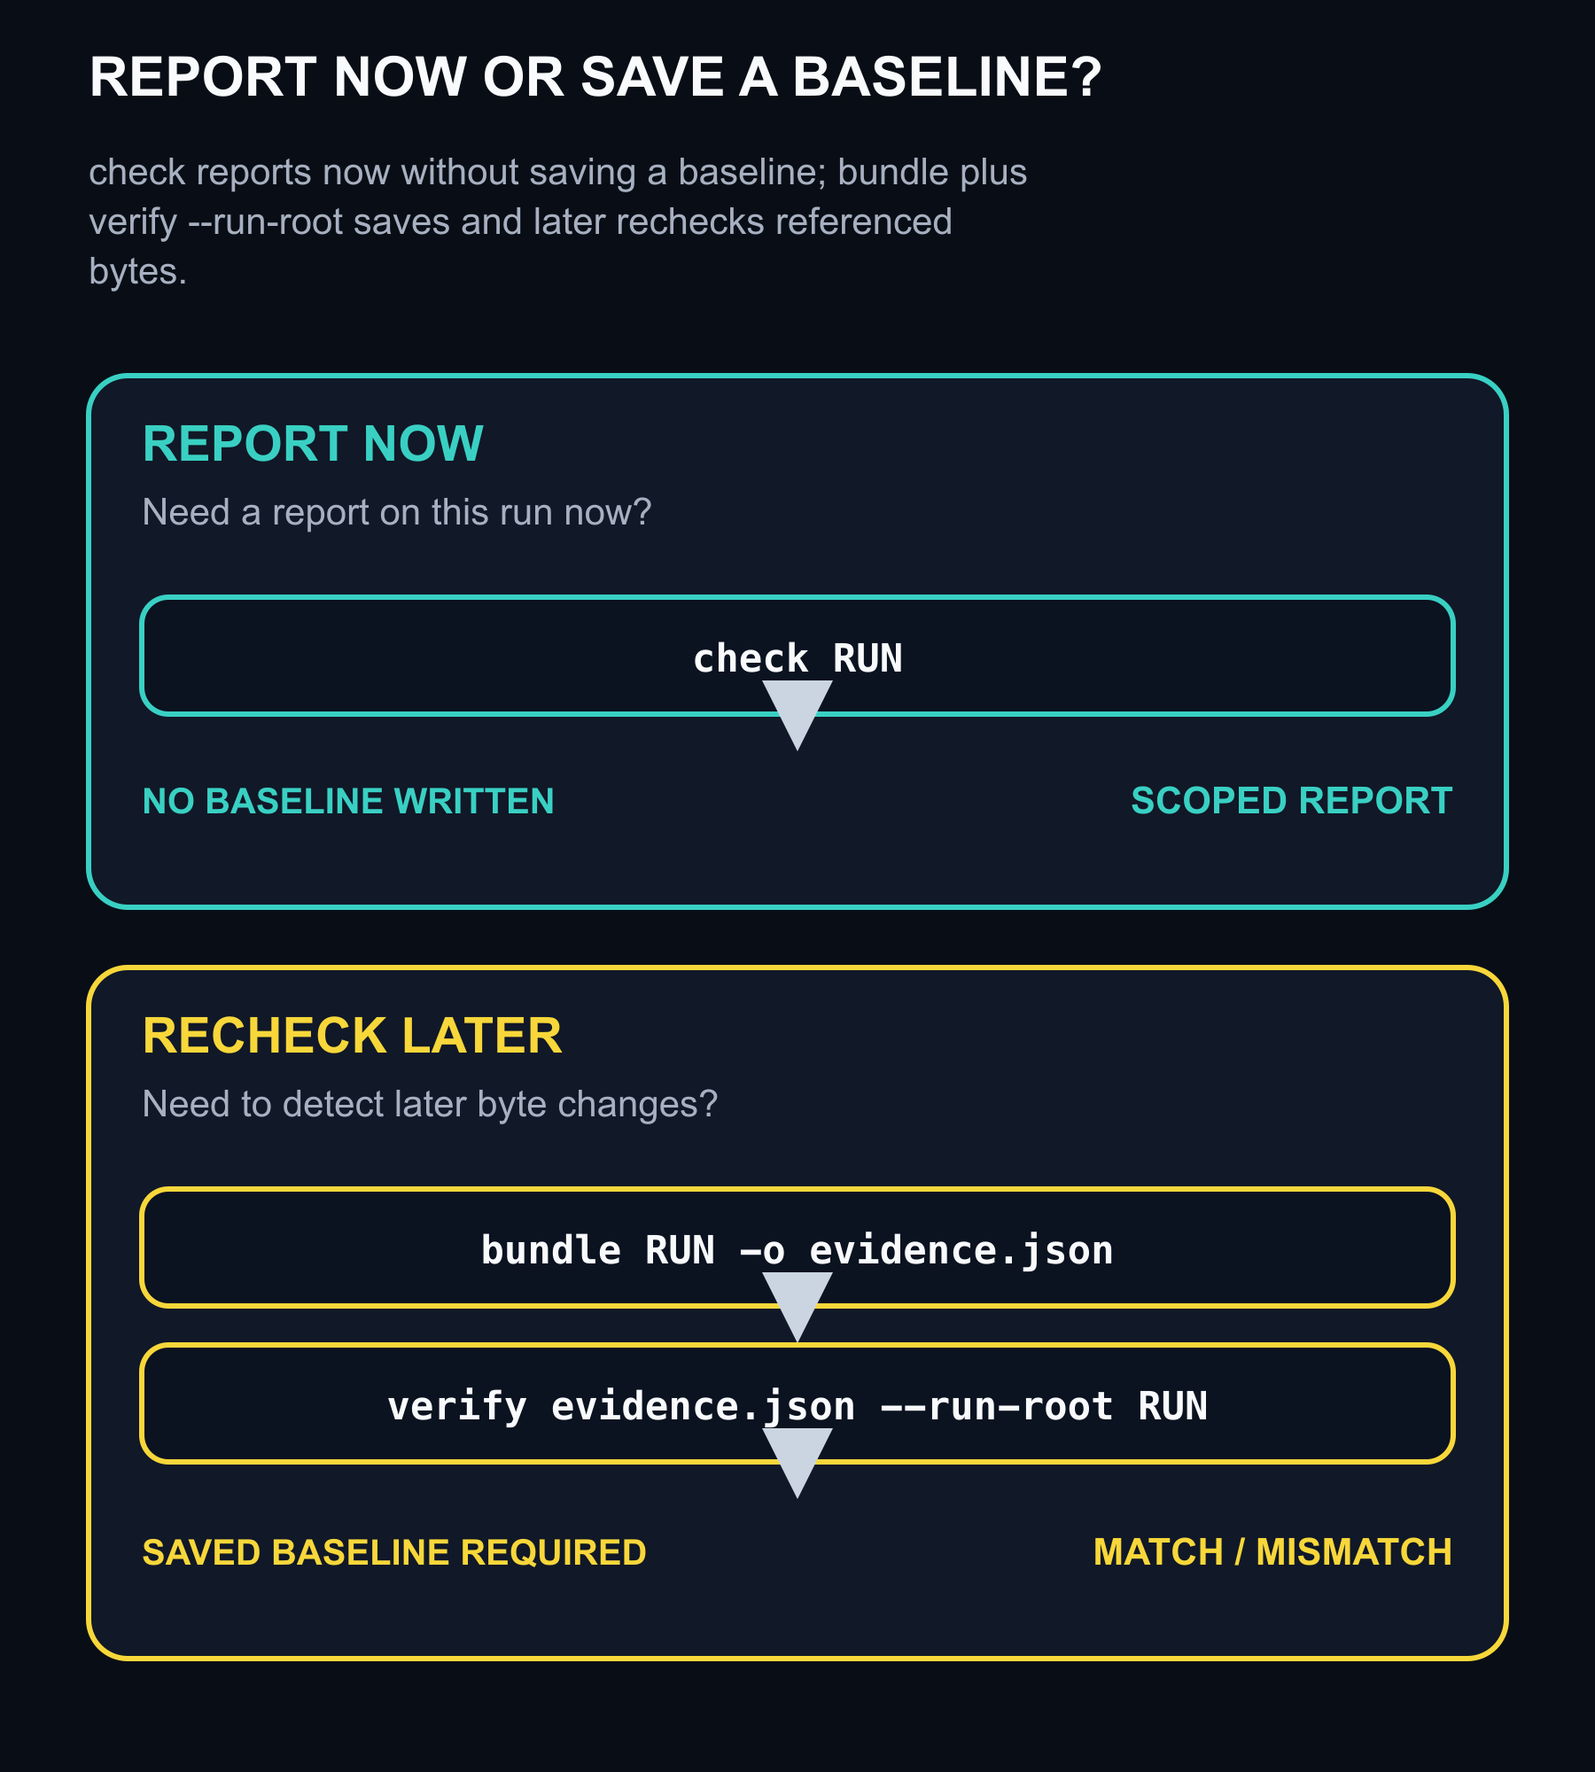
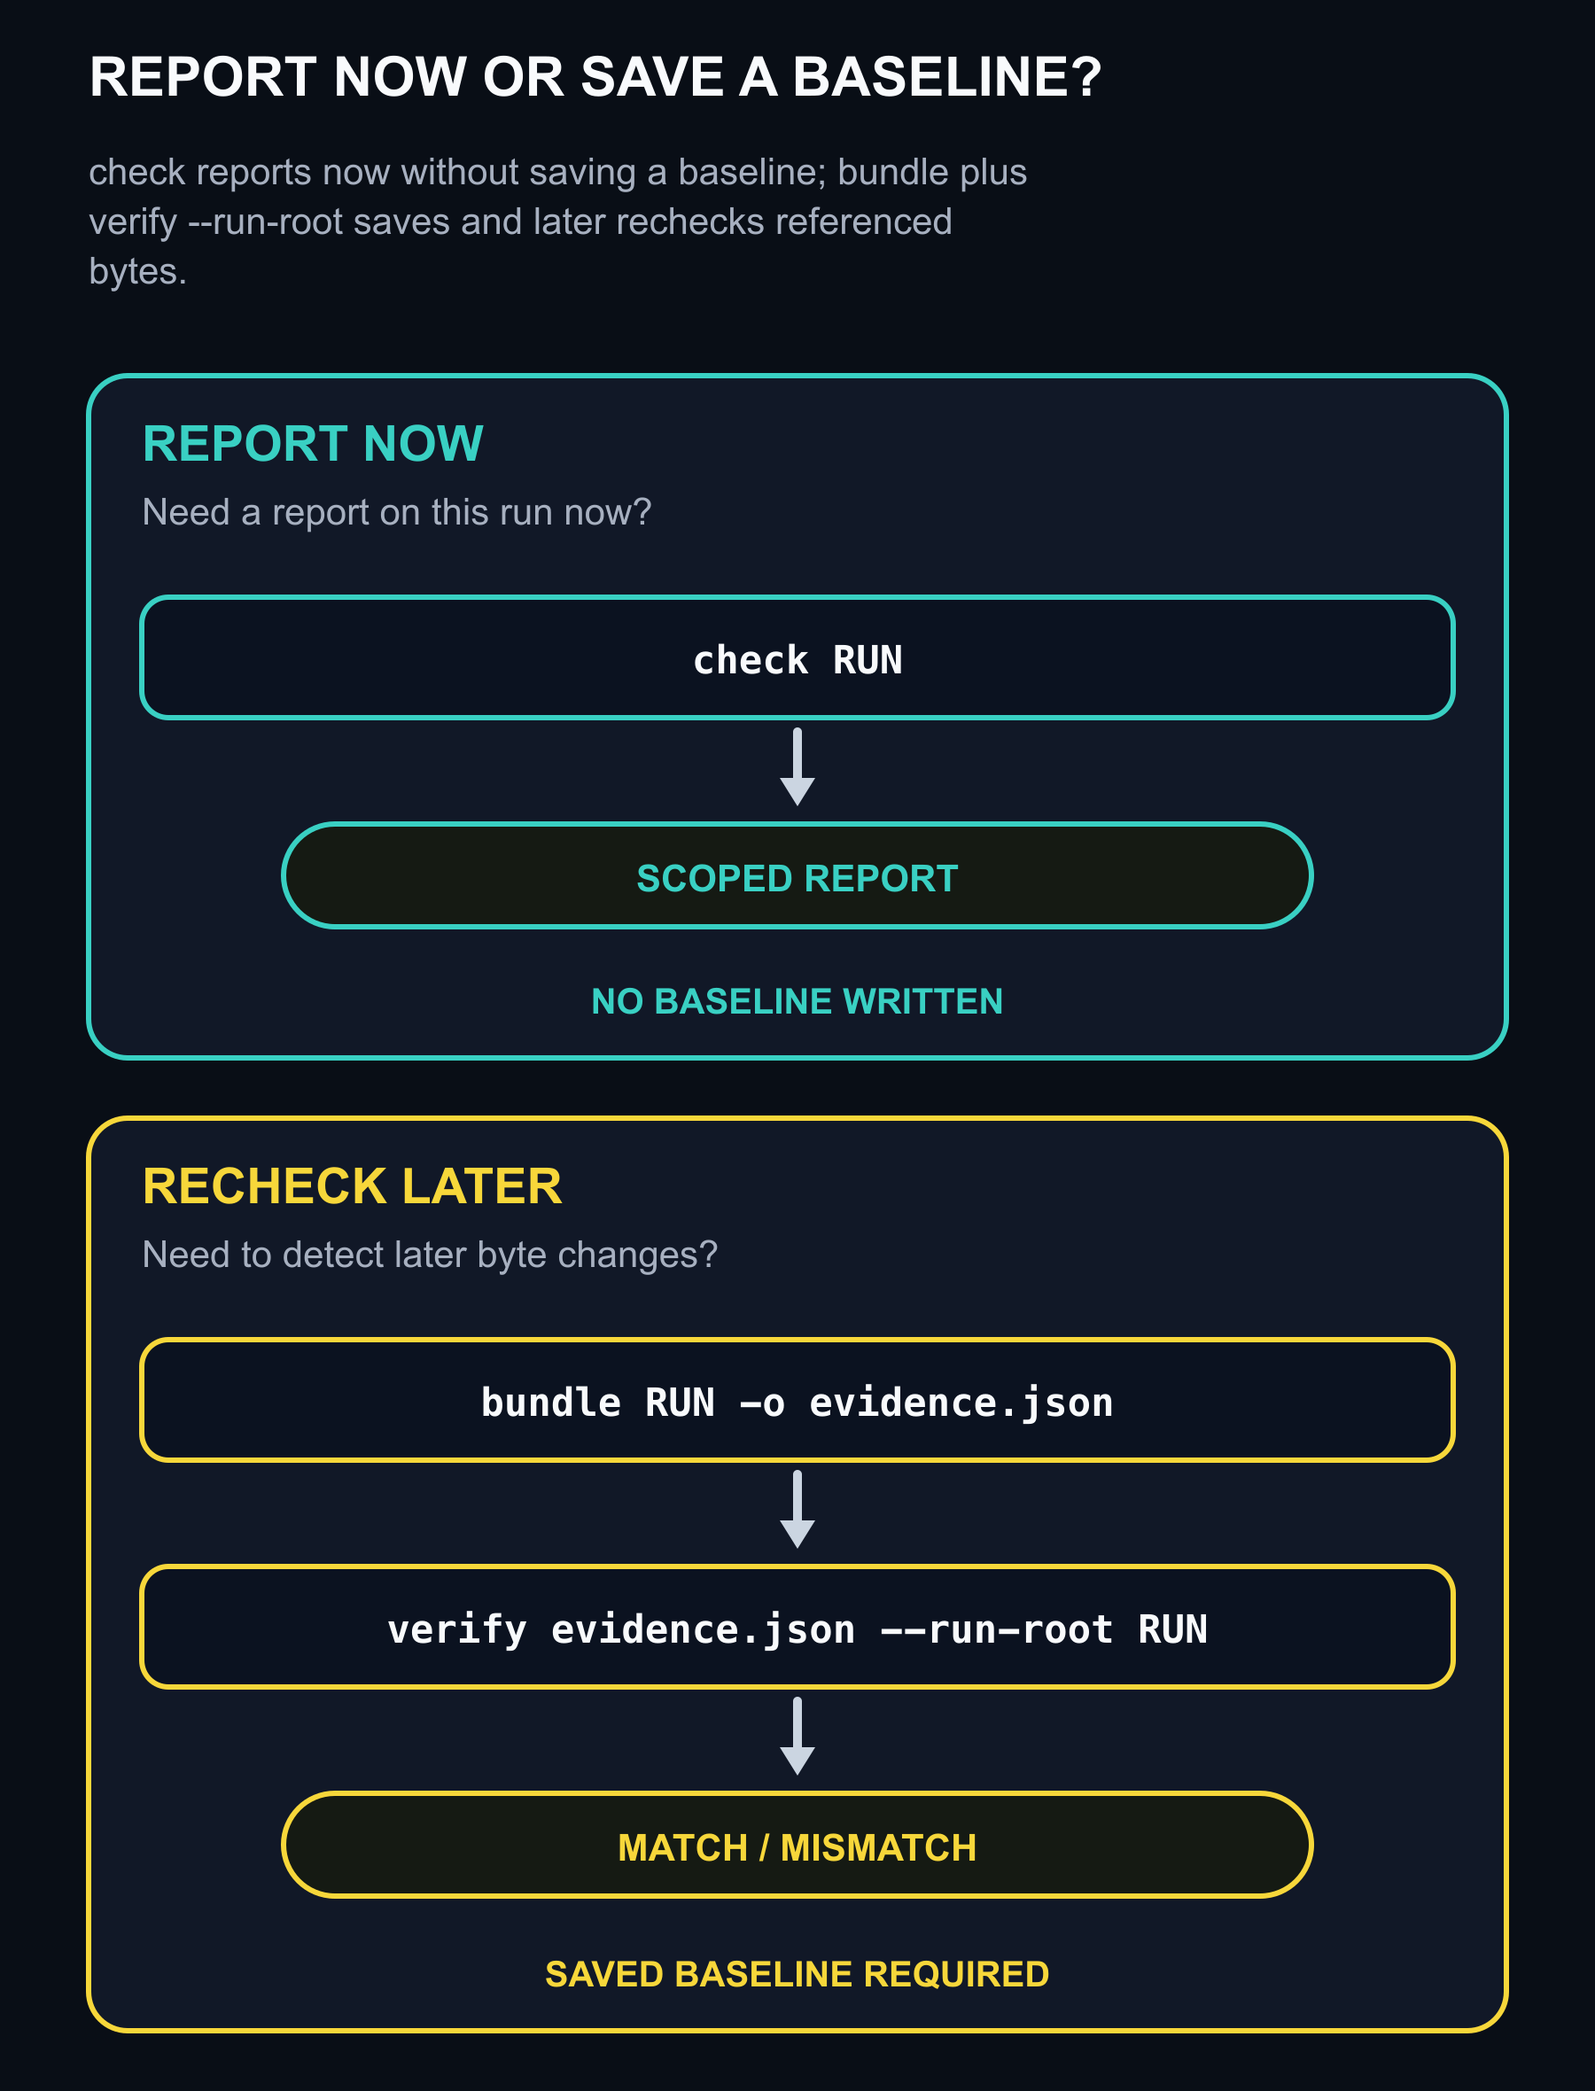
Polish responsive figure connectors

diff --git a/scripts/build_command_figure.py b/scripts/build_command_figure.py
@@ -12,12 +12,29 @@ from xml.sax.saxutils import escape
 ROOT = Path(__file__).resolve().parents[1]
 FIGURES = ROOT / "figures"
 FIGURE_ID = "eval-evidence-command-path"
-GENERATOR_VERSION = "3"
+GENERATOR_VERSION = "4"
 BG, PANEL, INK, MUTED = "#090E16", "#111827", "#F8FAFC", "#A7B0C0"
 
 
 def t(value: object) -> str:
     return escape(str(value), {'"': '&quot;'})
+
+
+def horizontal_arrow(x1: int, x2: int, y: int) -> list[str]:
+    """Draw a connector whose body stays visible at every render scale."""
+    return [
+        f'<line class="flow-arrow-body" x1="{x1}" y1="{y}" x2="{x2 - 16}" y2="{y}" stroke="#CBD5E1" stroke-width="5" stroke-linecap="round"/>',
+        f'<path class="flow-arrow-head" d="M{x2 - 16} {y - 10} L{x2} {y} L{x2 - 16} {y + 10} Z" fill="#CBD5E1"/>',
+    ]
+
+
+def command_lines(step: str) -> list[str]:
+    """Wrap long commands only at a real CLI option boundary."""
+    for option in (" -o ", " --run-root "):
+        if option in step:
+            command, value = step.split(option, 1)
+            return [command, f"{option.strip()} {value}"]
+    return [step]
 
 
 def svg(brief: dict, render: dict, bd: str, rd: str) -> str:
@@ -44,22 +61,25 @@ def svg(brief: dict, render: dict, bd: str, rd: str) -> str:
         ])
         for i, prompt_line in enumerate(prompt_lines):
             p.append(f'<text x="195" y="{y + 113 + i * 28}" text-anchor="middle" fill="{INK}" font-family="Arial, sans-serif" font-size="20">{t(prompt_line)}</text>')
-        step_xs = [380] if len(lane["steps"]) == 1 else [350, 735]
-        step_widths = [510] if len(lane["steps"]) == 1 else [340, 520]
+        if len(lane["steps"]) == 1:
+            step_xs, step_widths = [400], [500]
+            result_x, result_width, note_x = 1190, 300, 400
+        else:
+            step_xs, step_widths = [350, 740], [280, 400]
+            result_x, result_width, note_x = 1285, 215, 350
         for idx, (step, x, step_width) in enumerate(zip(lane["steps"], step_xs, step_widths)):
-            p.extend([
-                f'<rect x="{x}" y="{y + 50}" width="{step_width}" height="82" rx="16" fill="#0B1220" stroke="{color}" stroke-width="3"/>',
-                f'<text x="{x + step_width / 2}" y="{y + 101}" text-anchor="middle" fill="{INK}" font-family="monospace" font-size="{20 if len(step) > 20 else 22}" font-weight="700">{t(step)}</text>',
-            ])
+            lines = command_lines(step)
+            p.append(f'<rect x="{x}" y="{y + 50}" width="{step_width}" height="82" rx="16" fill="#0B1220" stroke="{color}" stroke-width="3"/>')
+            for line, line_y in zip(lines, (y + 101,) if len(lines) == 1 else (y + 84, y + 112)):
+                p.append(f'<text x="{x + step_width / 2}" y="{line_y}" text-anchor="middle" fill="{INK}" font-family="monospace" font-size="{20 if len(lines) > 1 or len(line) > 20 else 22}" font-weight="700">{t(line)}</text>')
             if idx < len(lane["steps"]) - 1:
-                p.append(f'<path d="M{x + step_width + 10} {y + 91} H{x + step_width + 54}" stroke="#CBD5E1" stroke-width="5" marker-end="url(#arrow)"/>')
-        result_x = 1285 if len(lane["steps"]) == 2 else 1110
+                p.extend(horizontal_arrow(x + step_width + 16, step_xs[idx + 1] - 20, y + 91))
         prior_end = step_xs[-1] + step_widths[-1]
         p.extend([
-            f'<path d="M{prior_end + 10} {y + 91} H{result_x - 24}" stroke="#CBD5E1" stroke-width="5" marker-end="url(#arrow)"/>',
-            f'<rect x="{result_x}" y="{y + 42}" width="{210 if len(lane["steps"]) == 2 else 235}" height="98" rx="49" fill="#151A13" stroke="{color}" stroke-width="4"/>',
-            f'<text x="{result_x + (105 if len(lane["steps"]) == 2 else 117)}" y="{y + 101}" text-anchor="middle" fill="{color}" font-family="Arial, sans-serif" font-size="{20 if len(lane["result"]) > 16 else 21}" font-weight="700">{t(lane["result"])}</text>',
-            f'<text x="380" y="{y + 177}" fill="{color}" font-family="Arial, sans-serif" font-size="20" font-weight="700">{t(lane["note"])}</text>',
+            *horizontal_arrow(prior_end + 16, result_x - 20, y + 91),
+            f'<rect x="{result_x}" y="{y + 42}" width="{result_width}" height="98" rx="49" fill="#151A13" stroke="{color}" stroke-width="4"/>',
+            f'<text x="{result_x + result_width / 2}" y="{y + 101}" text-anchor="middle" fill="{color}" font-family="Arial, sans-serif" font-size="{20 if len(lane["result"]) > 15 else 21}" font-weight="700">{t(lane["result"])}</text>',
+            f'<text x="{note_x}" y="{y + 177}" fill="{color}" font-family="Arial, sans-serif" font-size="20" font-weight="700">{t(lane["note"])}</text>',
         ])
     p.append('</svg>')
     return "\n".join(p) + "\n"

diff --git a/scripts/build_story_figures.py b/scripts/build_story_figures.py
@@ -23,11 +23,20 @@ def t(value: object) -> str:
     return escape(str(value), {'"': '&quot;'})
 
 
+def horizontal_arrow(x1: int, x2: int, y: int) -> list[str]:
+    """Draw a connector with a separately visible shaft and head."""
+    return [
+        f'<line class="flow-arrow-body" x1="{x1}" y1="{y}" x2="{x2 - 16}" y2="{y}" stroke="#CBD5E1" stroke-width="5" stroke-linecap="round"/>',
+        f'<path class="flow-arrow-head" d="M{x2 - 16} {y - 10} L{x2} {y} L{x2 - 16} {y + 10} Z" fill="#CBD5E1"/>',
+    ]
+
+
 def head(brief: dict, render: dict, bd: str, rd: str) -> list[str]:
     width, height = render["canvas"]["width"], render["canvas"]["height"]
+    generator_version = "3" if render["figure_id"] == "eval-evidence-tamper-story" else GENERATOR_VERSION
     return [
         '<?xml version="1.0" encoding="UTF-8"?>',
-        f'<!-- generated by scripts/build_story_figures.py v{GENERATOR_VERSION}; brief-sha256={bd}; render-sha256={rd} -->',
+        f'<!-- generated by scripts/build_story_figures.py v{generator_version}; brief-sha256={bd}; render-sha256={rd} -->',
         f'<svg xmlns="http://www.w3.org/2000/svg" width="{width}" height="{height}" viewBox="0 0 {width} {height}" role="img" aria-labelledby="figure-title figure-desc">',
         f'<title id="figure-title">{t(brief["title"])}</title>',
         f'<desc id="figure-desc">{t(brief["accessibility"]["long_description"])}</desc>',
@@ -103,12 +112,12 @@ def tamper_svg(brief: dict, render: dict, bd: str, rd: str) -> str:
     p = head(brief, render, bd, rd)
     cards = [
         (render["before"], 70, "#20D66B"),
-        (render["after"], 570, "#FF6F59"),
-        (render["verify"], 1070, "#F7D73A"),
+        (render["after"], 600, "#FF6F59"),
+        (render["verify"], 1130, "#F7D73A"),
     ]
     for idx, (card, x, color) in enumerate(cards, 1):
         p.extend([
-            f'<rect x="{x}" y="205" width="430" height="310" rx="24" fill="{PANEL}" stroke="{color}" stroke-width="4"/>',
+            f'<rect x="{x}" y="205" width="400" height="310" rx="24" fill="{PANEL}" stroke="{color}" stroke-width="4"/>',
             f'<circle cx="{x + 44}" cy="249" r="23" fill="{color}"/>',
             f'<text x="{x + 44}" y="258" text-anchor="middle" fill="{BG}" font-family="Arial, sans-serif" font-size="22" font-weight="700">{idx}</text>',
             f'<text x="{x + 86}" y="258" fill="{color}" font-family="Arial, sans-serif" font-size="25" font-weight="700">{t(card["verb"])}</text>',
@@ -119,7 +128,7 @@ def tamper_svg(brief: dict, render: dict, bd: str, rd: str) -> str:
                 f'<text x="{x + 38}" y="380" fill="{INK}" font-family="monospace" font-size="24">{t(card["value"])}</text>',
                 f'<text x="{x + 38}" y="453" fill="{MUTED}" font-family="Arial, sans-serif" font-size="20">SHA-256</text>',
                 f'<text x="{x + 160}" y="453" fill="{color}" font-family="monospace" font-size="25" font-weight="700">{t(card["digest"])}</text>',
-                f'<path d="M{x + 440} 360 H{x + 478}" stroke="#CBD5E1" stroke-width="6" marker-end="url(#arrow)"/>',
+                *horizontal_arrow(x + 418, cards[idx][1] - 20, 360),
             ])
         else:
             p.extend([
@@ -127,8 +136,8 @@ def tamper_svg(brief: dict, render: dict, bd: str, rd: str) -> str:
                 f'<text x="{x + 175}" y="330" fill="{INK}" font-family="monospace" font-size="24" font-weight="700">{t(card["expected"])}</text>',
                 f'<text x="{x + 38}" y="385" fill="{MUTED}" font-family="Arial, sans-serif" font-size="20">ACTUAL</text>',
                 f'<text x="{x + 175}" y="385" fill="#FF6F59" font-family="monospace" font-size="24" font-weight="700">{t(card["actual"])}</text>',
-                f'<text x="{x + 215}" y="447" text-anchor="middle" fill="#FF6F59" font-family="Arial, sans-serif" font-size="27" font-weight="700">≠</text>',
-                f'<text x="{x + 215}" y="487" text-anchor="middle" fill="#FF6F59" font-family="Arial, sans-serif" font-size="22" font-weight="700">{t(card["result"])}</text>',
+                f'<text x="{x + 200}" y="447" text-anchor="middle" fill="#FF6F59" font-family="Arial, sans-serif" font-size="27" font-weight="700">≠</text>',
+                f'<text x="{x + 200}" y="487" text-anchor="middle" fill="#FF6F59" font-family="Arial, sans-serif" font-size="22" font-weight="700">{t(card["result"])}</text>',
             ])
     p.extend([
         '<rect x="245" y="580" width="1110" height="86" rx="18" fill="#261416" stroke="#FF6F59" stroke-width="3"/>',

diff --git a/scripts/build_mobile_figures.py b/scripts/build_mobile_figures.py
@@ -36,14 +36,25 @@ def box(x: int, y: int, width: int, height: int, stroke: str = "#334155",
     return f'<rect x="{x}" y="{y}" width="{width}" height="{height}" rx="{radius}" fill="{fill}" stroke="{stroke}" stroke-width="{stroke_width}"/>'
 
 
+def down_arrow(x: int, y1: int, y2: int) -> list[str]:
+    """Draw a vertical flow connector with a readable shaft and arrowhead."""
+    return [
+        f'<line class="flow-arrow-body" x1="{x}" y1="{y1}" x2="{x}" y2="{y2 - 16}" stroke="#CBD5E1" stroke-width="5" stroke-linecap="round"/>',
+        f'<path class="flow-arrow-head" d="M{x - 10} {y2 - 16} L{x} {y2} L{x + 10} {y2 - 16} Z" fill="#CBD5E1"/>',
+    ]
+
+
 def header(parts: list[str], brief: dict, render: dict) -> int:
     canvas = render["mobile_canvas"]
     bp = FIGURES / f'{render["figure_id"]}.figure.json'
     rp = FIGURES / f'{render["figure_id"]}.render.json'
     bd = hashlib.sha256(bp.read_text(encoding="utf-8").encode("utf-8")).hexdigest()
     rd = hashlib.sha256(rp.read_text(encoding="utf-8").encode("utf-8")).hexdigest()
+    generator_version = "3" if render["figure_id"] in {
+        "eval-evidence-command-path", "eval-evidence-tamper-story"
+    } else VERSION
     parts.extend([
-        f'<!-- generated by scripts/build_mobile_figures.py v{VERSION}; mobile=true; brief-sha256={bd}; render-sha256={rd} -->',
+        f'<!-- generated by scripts/build_mobile_figures.py v{generator_version}; mobile=true; brief-sha256={bd}; render-sha256={rd} -->',
         f'<svg xmlns="http://www.w3.org/2000/svg" width="{canvas["width"]}" height="{canvas["height"]}" viewBox="0 0 {canvas["width"]} {canvas["height"]}" role="img" aria-labelledby="figure-title figure-desc">',
         f'<title id="figure-title">{esc(brief["title"])}</title>',
         f'<desc id="figure-desc">{esc(brief["accessibility"]["long_description"])}</desc>',
@@ -91,23 +102,27 @@ def command(brief: dict, render: dict) -> str:
     y = header(p, brief, render)
     for lane in render["lanes"]:
         color = lane["color"]
-        height = 300 if len(lane["steps"]) == 1 else 390
+        height = 385 if len(lane["steps"]) == 1 else 515
         p.extend([box(50, y, 800, height, color), txt(80, y + 48, lane["label"], 28, color, 800)])
         prompt_y = y + 84
         for value in textwrap.wrap(lane["prompt"], width=50):
             p.append(txt(80, prompt_y, value, 21, MUTED, 500)); prompt_y += 27
         step_y = y + 125
-        for step in lane["steps"]:
+        for idx, step in enumerate(lane["steps"]):
             p.extend([
-                box(80, step_y, 740, 66, color, "#0B1220", 15),
-                txt(450, step_y + 42, step, 22, INK, 700, "middle", "monospace"),
+                box(80, step_y, 740, 68, color, "#0B1220", 15),
+                txt(450, step_y + 43, step, 22, INK, 700, "middle", "monospace"),
             ])
-            step_y += 88
-            if step_y < y + height - 85:
-                p.append(f'<path d="M450 {step_y - 18} V{step_y - 5}" stroke="#CBD5E1" stroke-width="4" marker-end="url(#arrow)"/>')
+            if idx < len(lane["steps"]) - 1:
+                next_step_y = step_y + 128
+                p.extend(down_arrow(450, step_y + 76, next_step_y - 10))
+                step_y = next_step_y
+        result_y = step_y + 128
         p.extend([
-            txt(80, y + height - 53, lane["note"], 20, color, 800),
-            txt(820, y + height - 53, lane["result"], 21, color, 800, "end"),
+            *down_arrow(450, step_y + 76, result_y - 10),
+            box(160, result_y, 580, 58, color, "#151A13", 29),
+            txt(450, result_y + 38, lane["result"], 21, color, 800, "middle"),
+            txt(450, y + height - 25, lane["note"], 20, color, 800, "middle"),
         ])
         y += height + 34
     p.append('</svg>')
@@ -192,9 +207,12 @@ def tamper(brief: dict, render: dict) -> str:
                 txt(790, y + 126, "≠", 31, "#FF6F59", 800, "end"),
                 txt(450, y + 198, card["result"], 23, "#FF6F59", 800, "middle"),
             ])
-        y += height + 28
         if idx < 3:
-            p.append(f'<path d="M450 {y - 28} V{y - 8}" stroke="#CBD5E1" stroke-width="5" marker-end="url(#arrow)"/>')
+            next_y = y + height + 64
+            p.extend(down_arrow(450, y + height + 8, next_y - 10))
+            y = next_y
+        else:
+            y += height + 38
     p.extend([
         box(50, y, 800, 84, "#FF6F59", "#261416", 18),
         txt(450, y + 51, render["error"], 20, INK, 700, "middle", "monospace"),

diff --git a/scripts/verify_figure.py b/scripts/verify_figure.py
@@ -37,6 +37,25 @@ def normalized(value: str) -> str:
     return re.sub(r"\s+", " ", value).strip()
 
 
+def verify_flow_connectors(errors: list[str], figure_id: str, suffix: str, expected: int) -> None:
+    """Reject head-only connectors and short shafts in the two sequential stories."""
+    path = FIGURES / f"{figure_id}{suffix}.svg"
+    root = ET.fromstring(path.read_text(encoding="utf-8"))
+    bodies = [element for element in root.iter() if element.attrib.get("class") == "flow-arrow-body"]
+    heads = [element for element in root.iter() if element.attrib.get("class") == "flow-arrow-head"]
+    if len(bodies) != expected or len(heads) != expected:
+        errors.append(
+            f"{path.name}: expected {expected} complete flow connectors, "
+            f"found {len(bodies)} bodies and {len(heads)} heads"
+        )
+        return
+    for body in bodies:
+        x1, y1 = float(body.attrib["x1"]), float(body.attrib["y1"])
+        x2, y2 = float(body.attrib["x2"]), float(body.attrib["y2"])
+        if ((x2 - x1) ** 2 + (y2 - y1) ** 2) ** 0.5 < 20:
+            errors.append(f"{path.name}: flow connector shaft is too short to remain visible")
+
+
 def verify_svg(
     errors: list[str],
     figure_id: str,
@@ -135,6 +154,12 @@ def main() -> int:
             errors.append(f"{figure_id}: canonical desktop SVG is stale")
         wide = verify_svg(errors, figure_id, brief, brief_bytes, render, render_bytes, "", "canvas")
         mobile = verify_svg(errors, figure_id, brief, brief_bytes, render, render_bytes, "-mobile", "mobile_canvas")
+        if figure_id == "eval-evidence-command-path":
+            verify_flow_connectors(errors, figure_id, "", 3)
+            verify_flow_connectors(errors, figure_id, "-mobile", 3)
+        elif figure_id == "eval-evidence-tamper-story":
+            verify_flow_connectors(errors, figure_id, "", 2)
+            verify_flow_connectors(errors, figure_id, "-mobile", 2)
         hashes[figure_id] = (*wide, *mobile)
     mobile_check = subprocess.run([sys.executable, str(ROOT / "scripts" / "build_mobile_figures.py"), "--check"], capture_output=True, text=True)
     if mobile_check.returncode:
